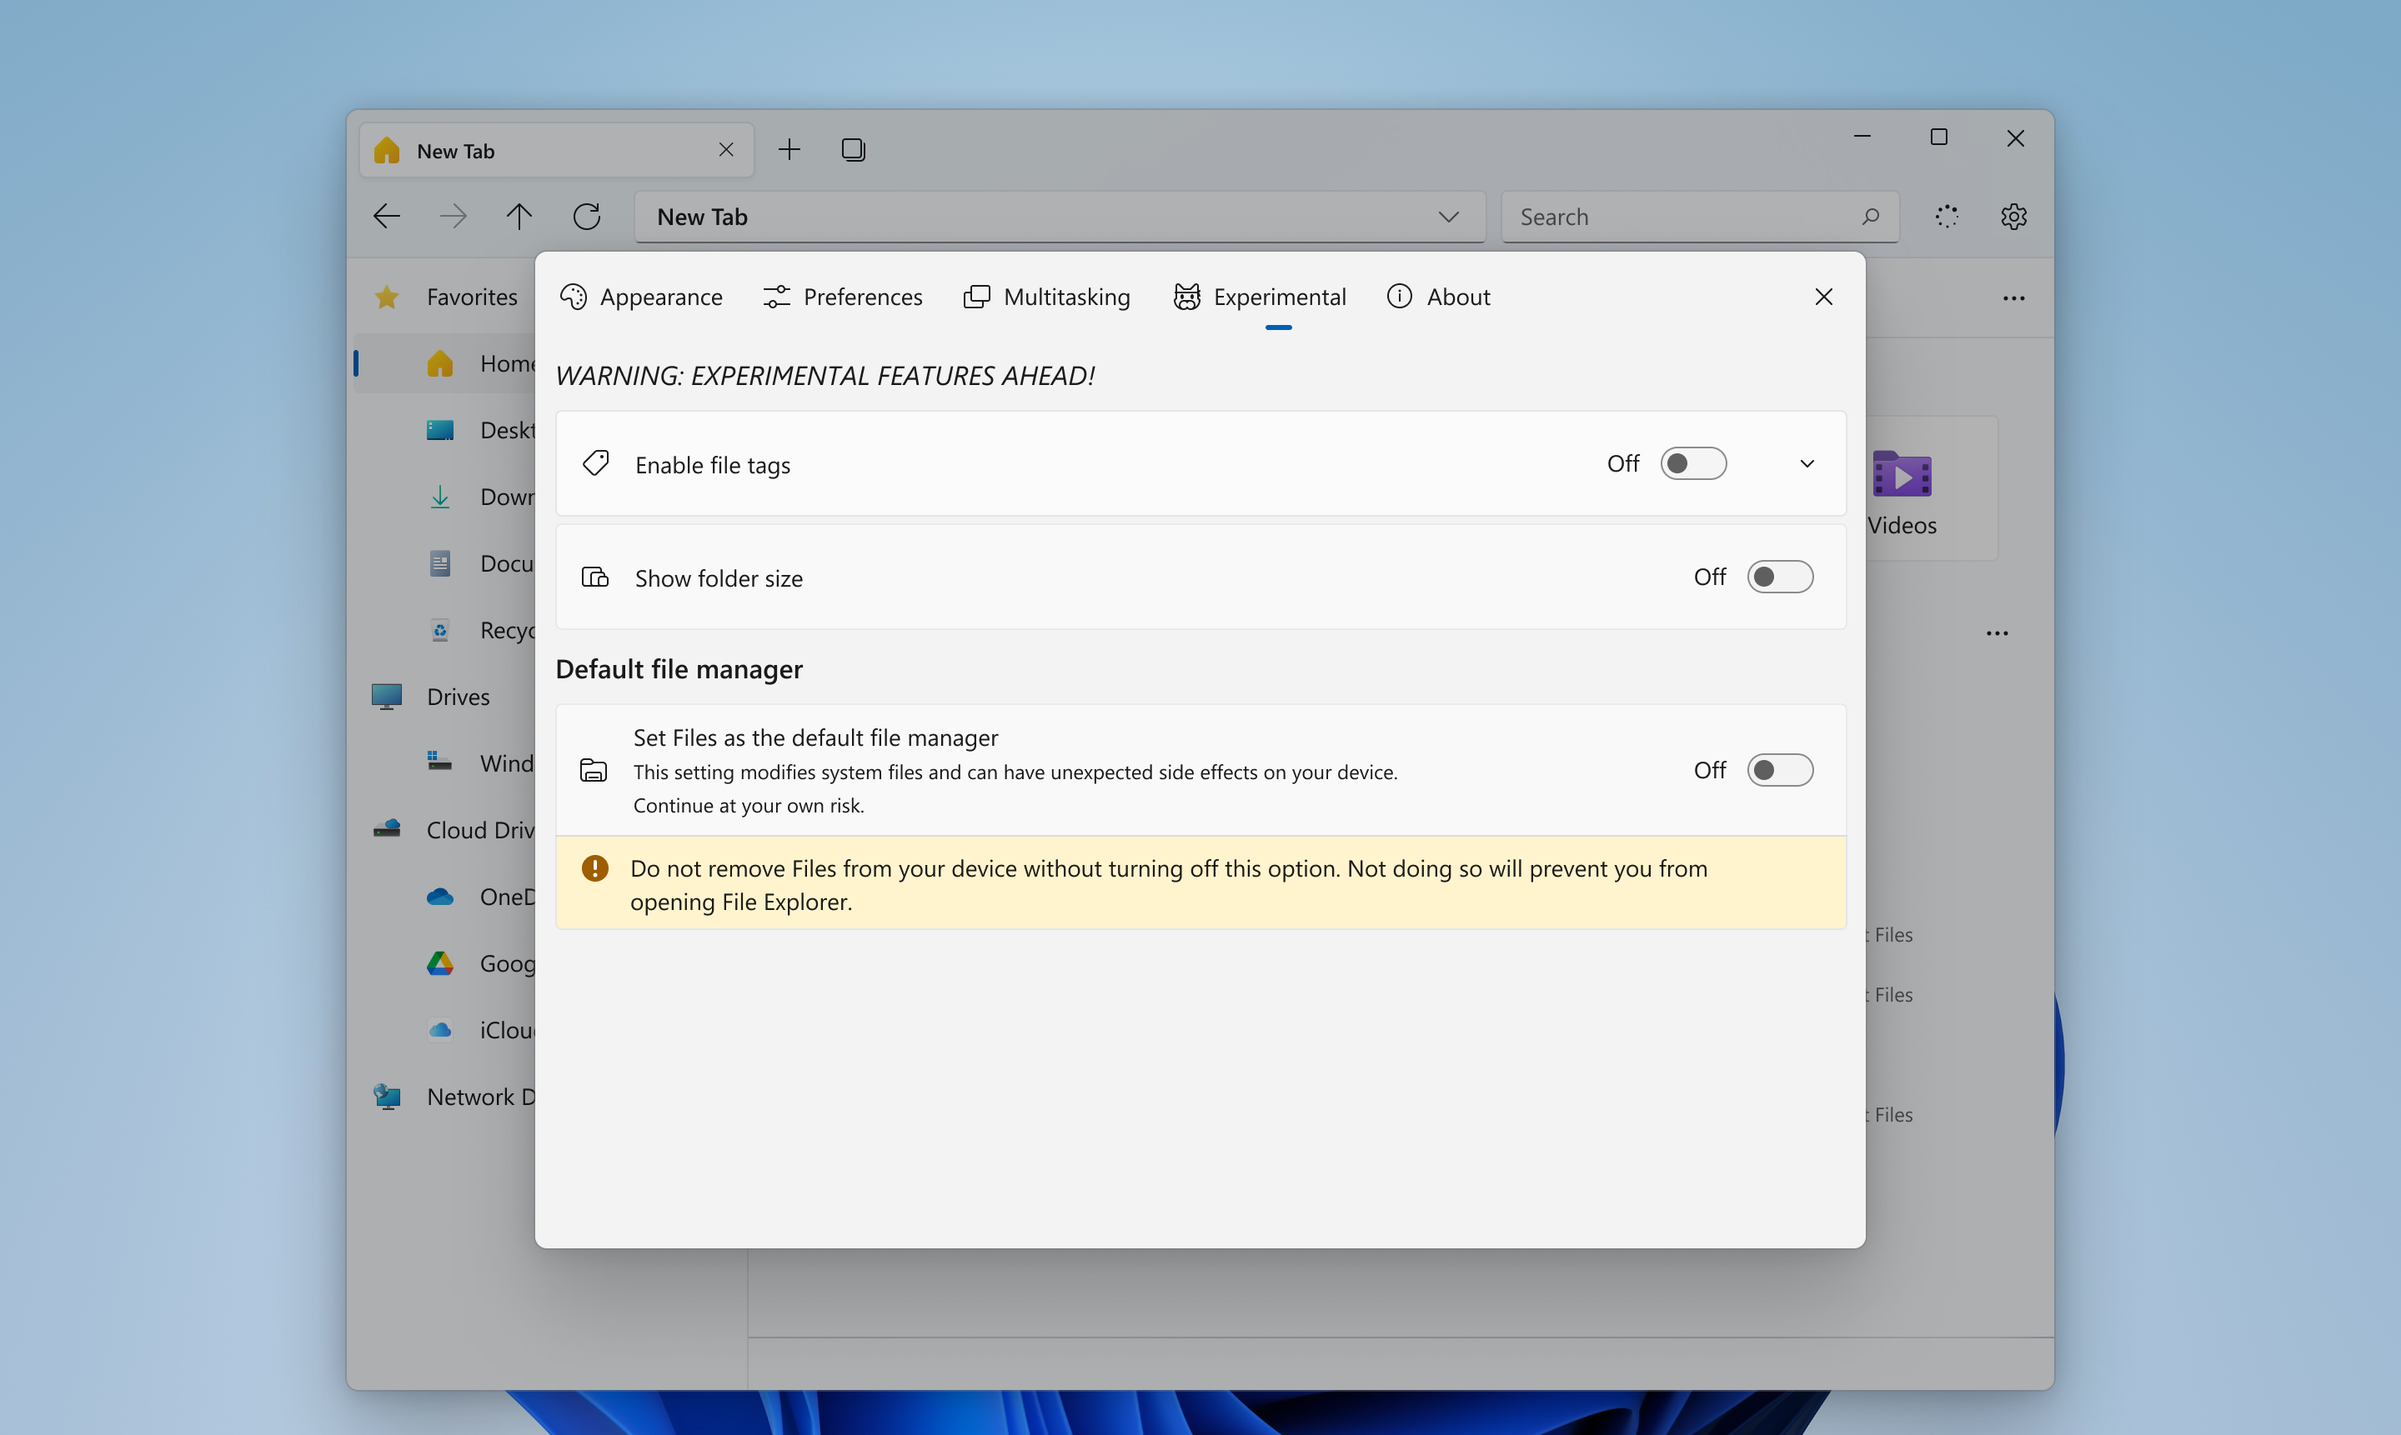
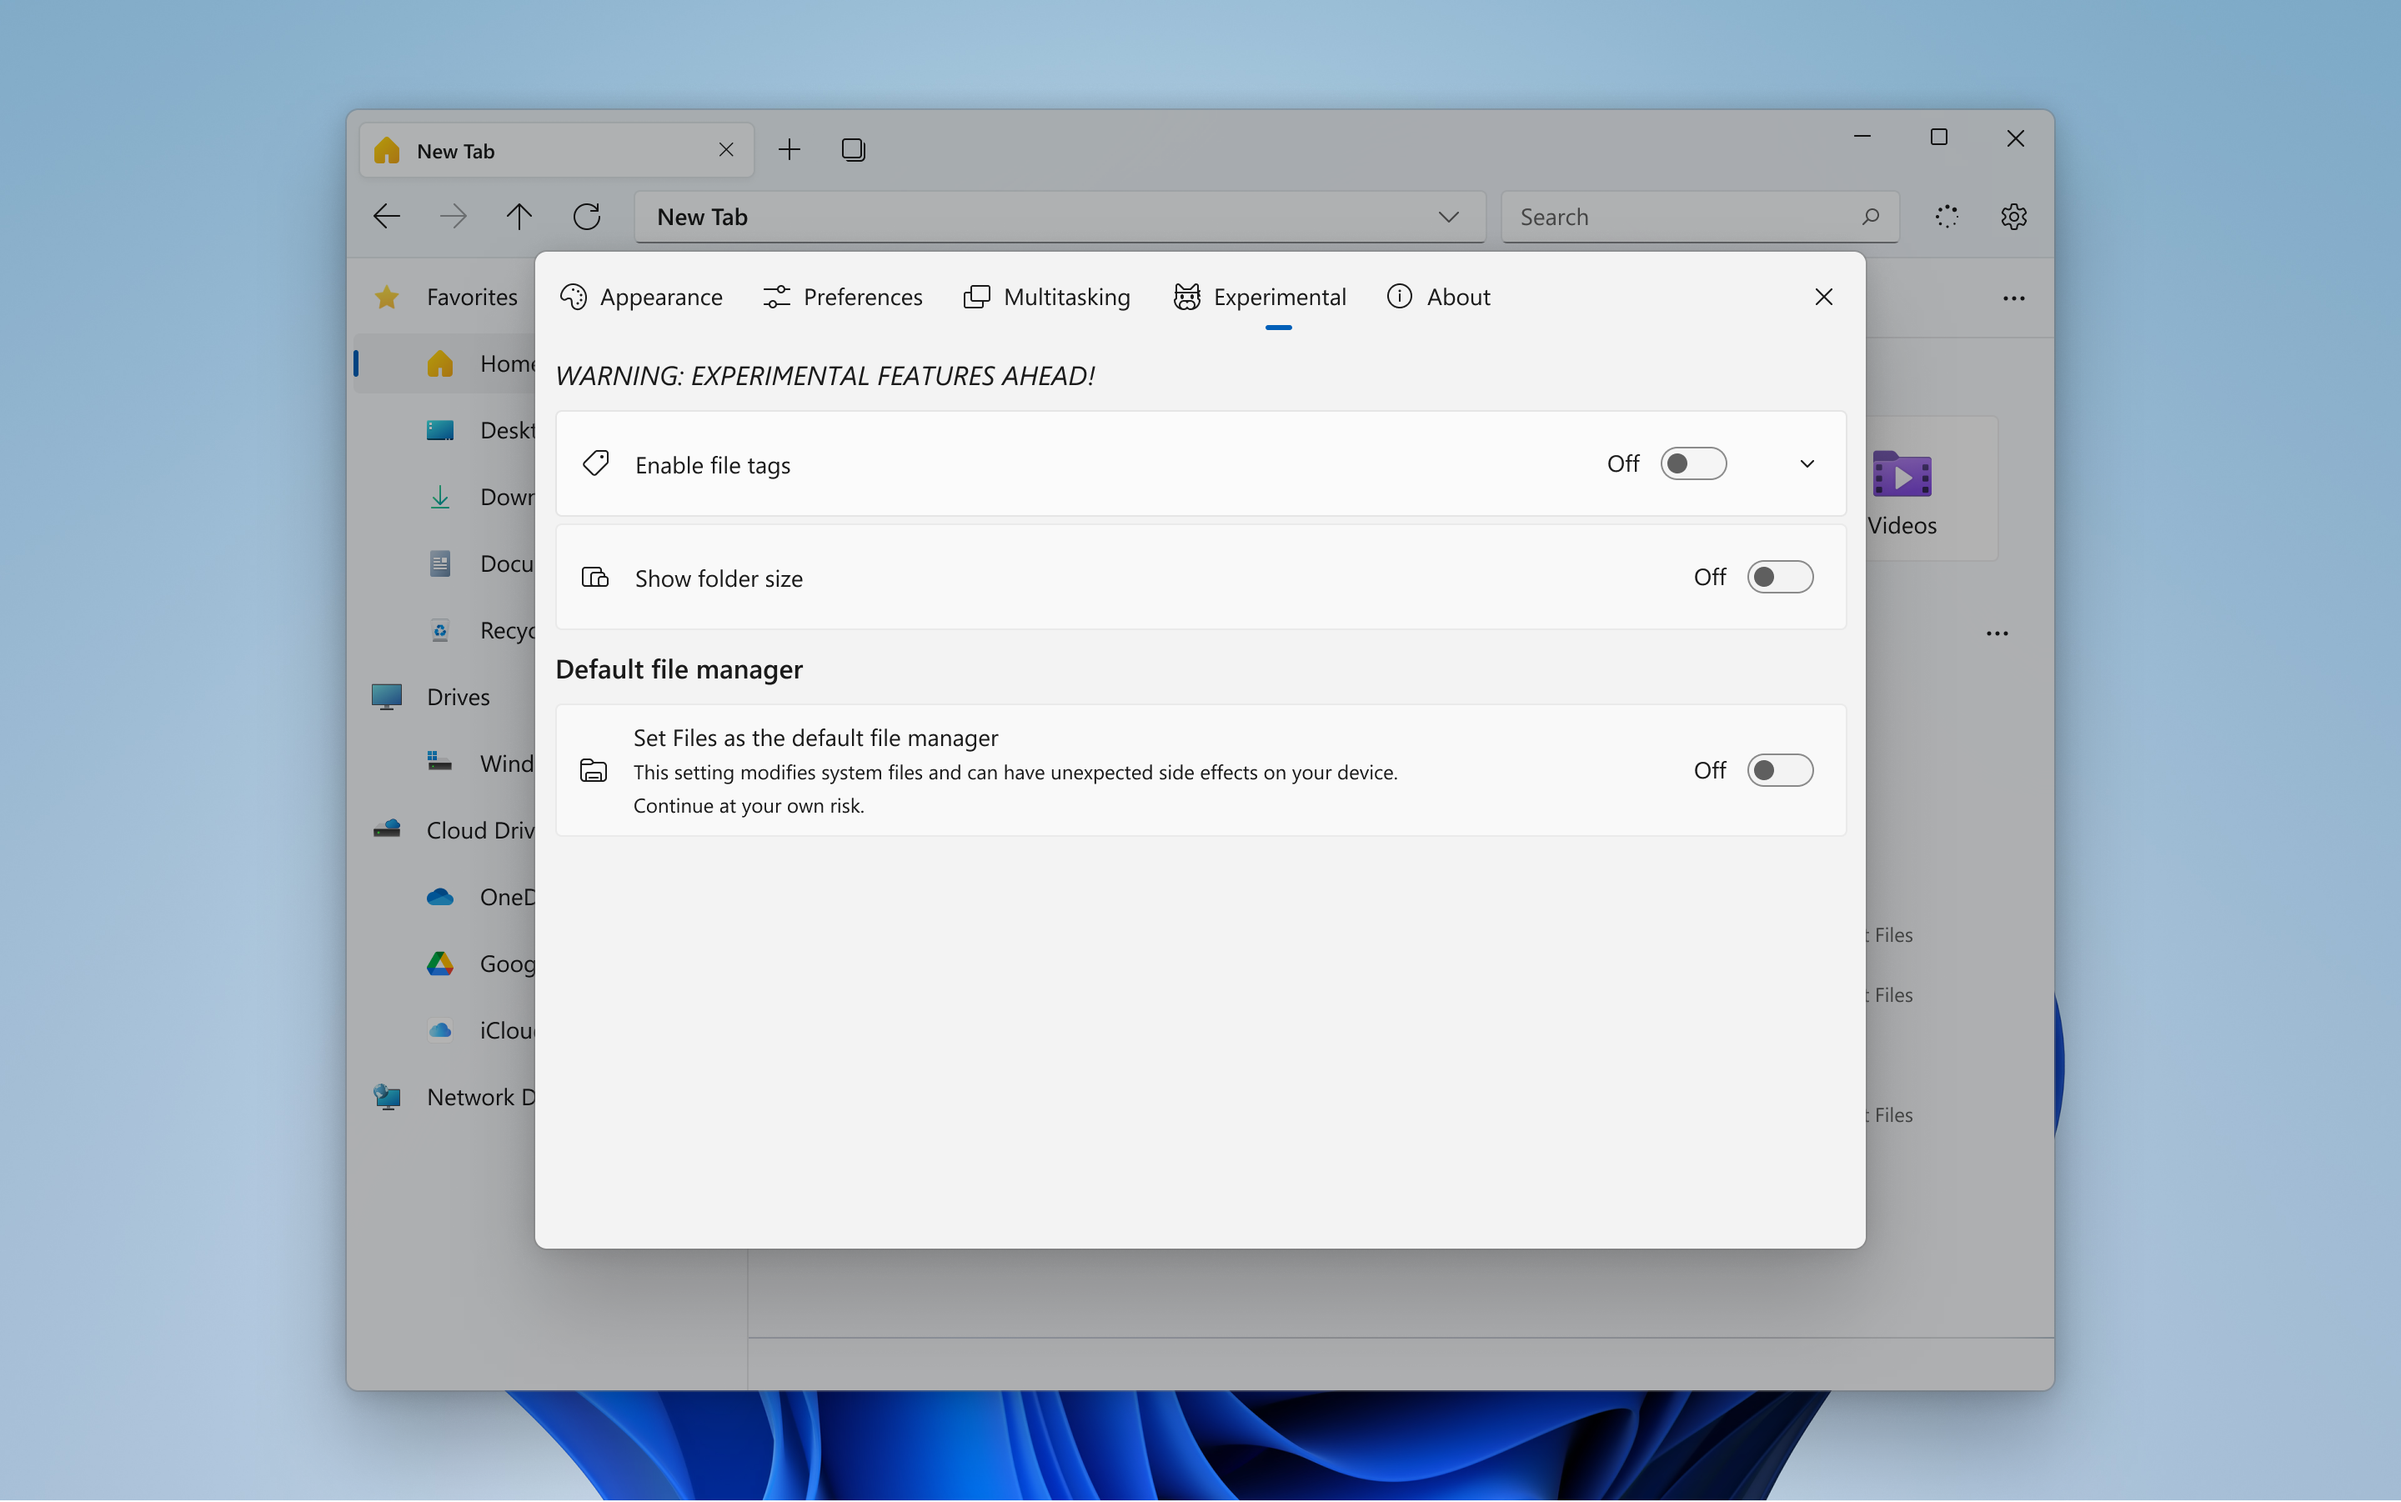
V2.3 announcement  (#198)

diff --git a/src/routes/blog/posts/introducing-files-v2-3.md b/src/routes/blog/posts/introducing-files-v2-3.md
@@ -1,0 +1,122 @@
+---
+title: Introducing the next major release of Files - v2.3
+description: We're excited to not only introduce the next major release of Files, but also a series of future changes to sustain contributor momentum into 2023. 
+thumbnail: /blog-resources/filesv2-3/HeroImage.jpg
+date: 2022-7-5
+author: files-community
+---
+
+The astounding growth of the project over the last three years serves to motivate our journey to build the best file manager, alongside the community. More than ever, Files plays an important role in demonstrating how impactful the latest user experience improvements in WinUI can be. A notable experience we can reflect on was fixing an issue with screen reader accessibility reported by a blind user. More recently, we were delighted to hear from a seventy-seven-year-old "non-geek" who was impressed that we made file discovery "much easier" compared to the first party solution. Both of these stories highlight the inadvertent achievements that come from engaging the broader community.
+
+Today we're excited to not only introduce the next major release of [Files]({'https://www.microsoft.com/store/apps/9nghp3dx8hdx?cid=AnnouncingV2-3'}), but also a series of future changes to sustain contributor momentum into 2023. 
+
+## Files v2.3
+
+As part of our mission to create a stable and fully-featured file manager, we added a compact spacing feature, bulk actions experience in the conflicts dialog, and a double click gesture to navigate up one directory. Additionally, we focused on improving the behavior of existing features with the understanding that they're most useful when they perform as expected.
+
+**Compact sizing** allows users to view more items on the screen
+<figure class="margin-bottom">
+    <img src="/blog-resources/filesv2-3/CompactSpacing.png" alt="A screenshot of the new compact spacing option in Files v2.3." />
+</figure>
+
+The **tab control** was redesigned to connect with the tab content.
+<figure class="margin-bottom">
+    <img src="/blog-resources/filesv2-3/Tabs.png" alt="A screenshot of the new tab design in Files v2.3." />
+</figure>
+
+We added an option to display **tags** on the sidebar
+<figure class="margin-bottom">
+    <img src="/blog-resources/filesv2-3/Tags.png" alt="A screenshot of the new tags section on the sidebar in Files v2.3." />
+</figure>
+
+Added support for applying bulk actions in the **conflicts dialog**
+<figure class="margin-bottom">
+    <img src="/blog-resources/filesv2-3/BulkActions.png" alt="A screenshot of the redesigned conflicts dialog in Files v2.3." />
+</figure>
+
+## Other changes
+- Improved the reliability and speed of drag and drop
+- Added a pull to refresh gesture
+- Removed the minimize and maximize buttons from the properties window
+- Added an animation when clicking on the setting and search buttons
+- Added an option to always show icons instead of thumbnails
+- Improved the spacing in the pathbar
+- Added a chevron to the pathbar to better indicate that there is a flyout menu
+- Reduced the spacing between widgets on the home page
+- Double clicking the grid splitter will now reset panes in the dual pane layout to the default width
+- More file types are now displayed in the "new" item context menu
+- Double clicking in a blank space will now go up one directory in the file tree
+- Adding a tag to a file no longer changes the date modified property
+- Added a shortcut to open folders in the default terminal `ctrl` + `shift` + `'`
+- Added a shortcut to play and pause media in the preview pane `ctrl` + `space`
+- Reduced the height of items in the sidebar to allow more items to be displayed at once
+- Invalid favorites and network shares are no longer removed the sidebar
+- Added a context menu to hide sections when right clicking on the sidebar
+- Added support for renaming items in the conflicts dialog
+- Network shares will automatically refresh when their content changes
+- Auto select first item in user list for permissions
+- Auto select the primary button in the empty recycle bin dialog
+- Deleting an item will automatically move the focus to the next item in the list
+- Resizing the window no longer changes the width of columns in the details layout
+- Added examples to the date format setting
+- Improved behavior when trying to name an item with invalid characters
+- Added a notification when copying or moving an item fails
+- Added the archive name to the extract archive dialog
+- Added support for adding tags to items in the search results page
+- Show which process is locking a file
+
+## Bug fixes
+- Fixed an issue where the address toolbar height would sometimes change when clicking on the search box
+- Fixed an issue that would cause the app window to close when dragging a tab to a new window
+- Fixed a crash that would sometimes occur when deleting files
+- Fixed an issue where expanding the sidebar sections would sometimes require two clicks
+- Fixed an issue where the sidebar state would sometimes get reset
+- Fixed an issue where duplicate drives were sometimes added to the sidebar
+- Fixed a crash that would sometimes occur when the favorites section was hidden
+- Fixed an issue where the UI didn't display correctly in compact overlay mode
+- Fixed an issue where the close pane button had the wrong icon
+- Fixed an issue where the disconnect drive option had the wrong icon
+- Fixed a crash that would sometimes occur when "show folder sizes" was enabled
+- Fixed an issue where the properties window sometimes used the wrong theme
+- Fixed a crash that would sometimes occur when previewing XML files
+- Fixed an issue that would sometimes prevent drag and drop from working
+- Fixed an issue where the clear all properties option didn't have any text
+- Fixed an issue where the import settings option didn't import all the settings
+- Fixed an issue where rotating an image multiple times would sometimes crash the app
+- Fixed an issue where the app would sometimes hang on startup
+- Fixed an issue where Box cloud drives didn't properly display files
+- Fixed an issue where the `ctrl` + `l` and `alt` + `d` shortcuts didn't set the focus to the address bar on the home page
+- Fixed an issue where pasting text in the search box would paste the clipboard content into the current directory
+- Fixed an issue where the overflow options weren't shown when right clicking on search results
+- Fixed an issue that prevented adding items into archives
+- Fixed an issue where extra toolbar buttons were visible in recycle bin
+- Fixed an issue where the tags section was sometimes visible in the context menu even after turning off the experimental setting
+- Fixed an issue where switching the app theme would make the group headers unreadable until restarting the app
+- Fixed an issue where the option to show dot files didn't work in WSL and network folders
+- Fixed an issue where the confirm delete dialog didn't display when dragging an item to recycle bin
+
+The full list of improvements and bug fixes can be found [here](https://github.com/files-community/Files/releases)
+
+## The next generation of Files
+
+This milestone marks the beginning of a reinvigorated effort to modernize and improve the architecture of the Files codebase. A well-architected, testable codebase will not only attract new contributors, but enables us to offer platform specific benefits in the long run. Furthermore, we will be able to iterate faster, accelerating our transition to the Windows App SDK. Switching will remove longstanding limitations in the present app model and will enable us to deliver improvements in net performance and reliability.
+
+We hope to share more about this effort in the coming months.
+
+We view these steps as critical to continuing the great work on Files. The best way for you to support current and future efforts is to [sponsor](https://github.com/sponsors/yaichenbaum) us on GitHub.
+
+### Giving back to the community
+
+The Files contributors are pleased to announce that the main application repository has been relicensed under the MIT license. This means that other projects can now take advantage of our innovation even if they happen to be closed source.
+
+## Feedback
+
+Files thrives off community feedback because it helps shape the features worked on and makes the app better for
+everyone. We invite you to submit your feedback through our GitHub repository.
+
+
+Download from
+the [Microsoft Store]({'https://www.microsoft.com/store/apps/9nghp3dx8hdx?cid=AnnouncingV2-3'})
+|| See Files on [GitHub](https://github.com/files-community/Files)
+
+

diff --git a/src/routes/docs/configuring/replace-file-explorer.md b/src/routes/docs/configuring/replace-file-explorer.md
@@ -1,11 +1,9 @@
 # Replacing File Explorer with Files (Experimental)
 
-*This setting modifies the system registry, make sure to create a backup beforehand and proceed at your own risk.
-Please keep in mind that these changes are not reverted when removing the app so make sure to turn this setting off before removing the app from your device.*
+*This setting modifies the system registry, make sure to create a backup beforehand and proceed at your own risk.*
 
 **Settings Files as the default file manager**
 
-*This is currently only available for the sideload version of Files and is not supported in the store version.*
 1. Open the settings dialog in Files
 2. Navigate to the experimental section and toggle the switch to set Files as the default file manager
 
